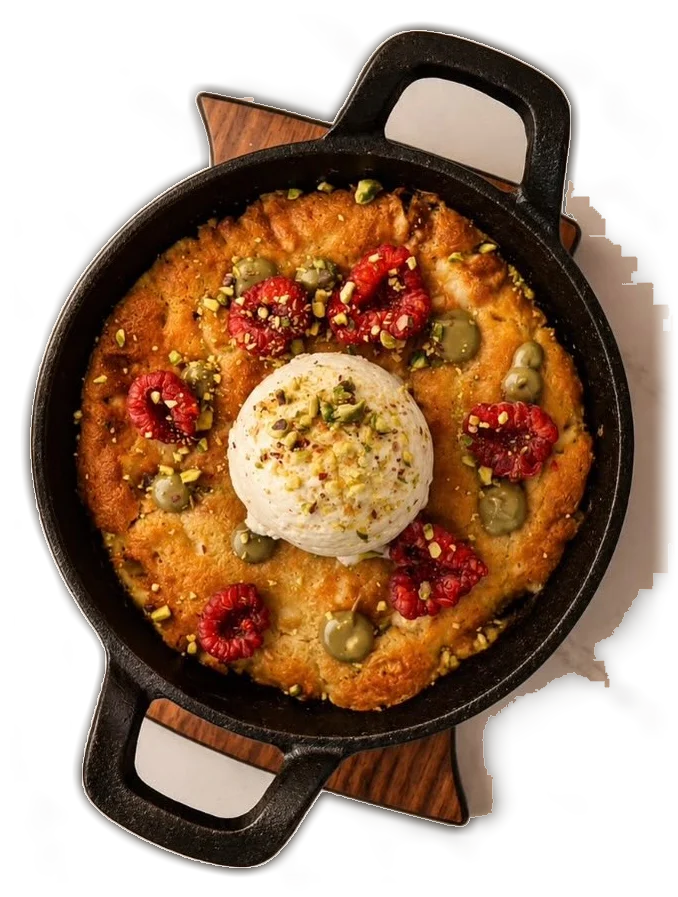
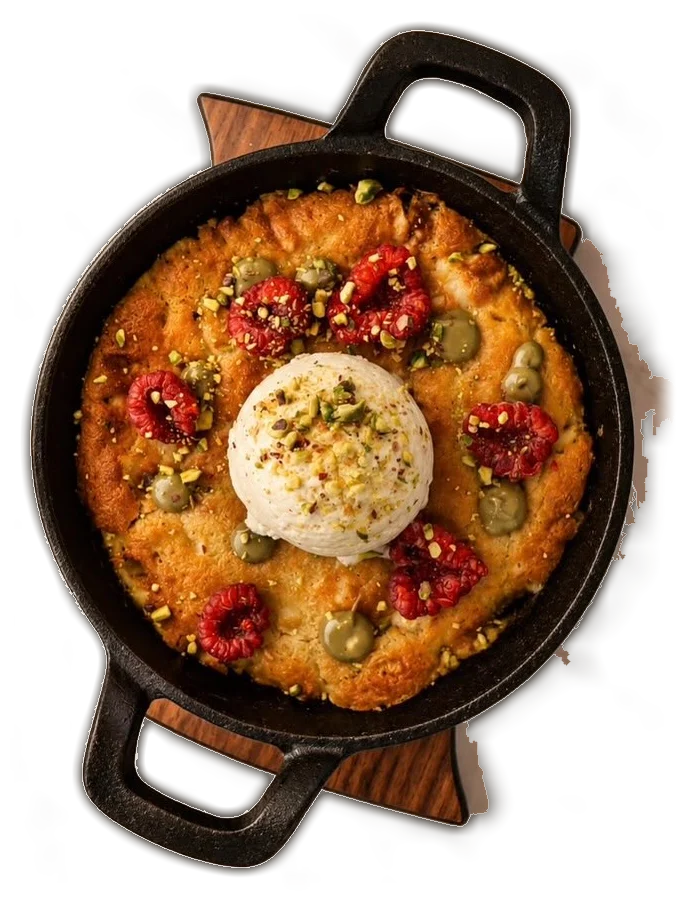
Mejoras de móvil, carta y recortes
- Móvil: una sola barra inferior; el botón principal pasa a «Votre table» con el
  total cuando hay algo en la mesa (sin píldora apilada encima).
- Pestañas de la carta fijas bajo la cabecera y deslizables en móvil; al cambiar
  de pestaña a media carta se vuelve al principio de la lista.
- Bebidas por grupos con un selector en lugar de 43 muestras seguidas.
- El aviso «ajouté» sale abajo para no tapar las pestañas.
- Recortes limpios de la sartén (asas huecas, sin mancha) y de Le Beldi. Recursos ?v=4.

diff --git a/js/main.js b/js/main.js
@@ -77,19 +77,45 @@
       if (s.extra) h += `<div class="more"><h3>${T('En plus', 'Extra', 'Extra')}</h3><ul class="rows">${rowHTML(s.extra)}</ul></div>`;
       return h + '</div>';
     }).join('') + `<div class="panel" role="tabpanel" id="p-boissons" aria-labelledby="t-boissons" tabindex="0"${current === 'boissons' ? '' : ' hidden'}>`
-      + DRINKS.map((g) => `<div class="sw-group"><h3>${txt(g.title)}</h3><div class="sws">${g.items.map(swHTML).join('')}</div></div>`).join('') + '</div>';
+      + `<div class="sw-filter" role="group" aria-label="${T('Type de boisson', 'Type of drink', 'Tipo de bebida')}">`
+      + DRINKS.map((g) => `<button type="button" class="sw-chip" data-group="${g.id}" aria-pressed="${g.id === group}">${txt(g.title)}<span>${g.items.length}</span></button>`).join('') + '</div>'
+      + DRINKS.map((g) => `<div class="sw-group" id="g-${g.id}"${g.id === group ? '' : ' hidden'}><h3>${txt(g.title)}</h3><div class="sws">${g.items.map(swHTML).join('')}</div></div>`).join('') + '</div>';
+  }
+  // bebidas: un grupo cada vez, para que la pestaña no sea una lista de 43
+  let group = DRINKS[0].id;
+  function selectGroup(id) {
+    group = id;
+    $$('.sw-chip').forEach((b) => {
+      const on = b.dataset.group === id; b.setAttribute('aria-pressed', String(on));
+      if (on) { const row = b.parentElement; row.scrollTo({ left: b.offsetLeft - (row.clientWidth - b.offsetWidth) / 2, behavior: reduce ? 'auto' : 'smooth' }); }
+    });
+    $$('.sw-group').forEach((g) => { g.hidden = g.id !== 'g-' + id; });
+    const g = $('#g-' + id);
+    if (!reduce && window.gsap && g) gsap.fromTo($$('.sw', g), { y: 16, opacity: 0 }, { y: 0, opacity: 1, duration: .45, ease: 'power3.out', stagger: .025, clearProps: 'transform,opacity' });
+    toCarteTop(); window.ScrollTrigger?.refresh();
+  }
+  // si la barra de pestañas va fija y ya se ha bajado por la carta, se vuelve al principio de la lista
+  function toCarteTop() {
+    const tabs = $('.tabs'), panels = $('.js-panels');
+    const y = panels.getBoundingClientRect().top + scrollY - navH() - tabs.offsetHeight - 24;
+    if (scrollY > y + 4) { if (window.lenis) lenis.scrollTo(y, { duration: .6 }); else scrollTo({ top: y }); }
   }
   function selectTab(id, focus) {
     current = id;
-    $$('.tab').forEach((b) => { const on = b.id === 't-' + id; b.setAttribute('aria-selected', on); b.tabIndex = on ? 0 : -1; if (on && focus) b.focus(); });
+    $$('.tab').forEach((b) => {
+      const on = b.id === 't-' + id; b.setAttribute('aria-selected', on); b.tabIndex = on ? 0 : -1;
+      if (on) { if (focus) b.focus(); const row = b.parentElement; row.scrollTo({ left: b.offsetLeft - (row.clientWidth - b.offsetWidth) / 2, behavior: reduce ? 'auto' : 'smooth' }); }
+    });
     $$('.panel').forEach((p) => { p.hidden = p.id !== 'p-' + id; });
     const p = $('#p-' + id);
-    if (!reduce && window.gsap && p) gsap.fromTo($$('.dish, .sw, .more', p).slice(0, 14), { y: 22, opacity: 0 }, { y: 0, opacity: 1, duration: .6, ease: 'power3.out', stagger: .035, clearProps: 'transform,opacity' });
+    if (!reduce && window.gsap && p) gsap.fromTo($$('.dish, .more, .sw-group:not([hidden]) .sw', p).slice(0, 14), { y: 22, opacity: 0 }, { y: 0, opacity: 1, duration: .6, ease: 'power3.out', stagger: .035, clearProps: 'transform,opacity' });
     window.ScrollTrigger?.refresh();
   }
   document.addEventListener('click', (e) => {
+    const chip = e.target.closest('.sw-chip');
+    if (chip) { selectGroup(chip.dataset.group); return; }
     const tab = e.target.closest('.tab');
-    if (tab) { selectTab(tab.id.slice(2)); return; }
+    if (tab) { selectTab(tab.id.slice(2)); toCarteTop(); return; }
     const link = e.target.closest('[data-tab]');
     if (link) { selectTab(link.dataset.tab); }
   });
@@ -182,7 +208,19 @@
     const pill = $('.js-pill');
     pill.hidden = count === 0;
     $('.js-pill-n').textContent = count; $('.js-pill-t').textContent = dh(total);
+    bar.count = count; bar.total = total; syncBar();
     return { rows, total };
+  }
+  // móvil: una sola barra. El primer botón es «La carte» o, si hay algo en la mesa, «Votre table» con el total
+  const bar = { count: 0, total: 0, inTable: false };
+  function syncBar() {
+    const main = $('.mb-main'); if (!main) return;
+    const showTable = bar.count > 0 && !bar.inTable;
+    main.setAttribute('href', showTable ? '#table' : '#carte');
+    main.classList.toggle('is-table', showTable);
+    main.innerHTML = showTable
+      ? `<span>${T('Votre table', 'Your table', 'Tu mesa')} · ${bar.count}</span><b>${dh(bar.total)}</b>`
+      : `<span>${T('La carte', 'Menu', 'La carta')}</span>`;
   }
   $('.js-copy')?.addEventListener('click', async () => {
     const { rows, total } = renderBill();
@@ -251,6 +289,7 @@
     const inTable = m.tTop - y < m.vh * .85 && m.tBot - y > m.vh * .2;
     top.classList.toggle('scrolled', y > 24);
     mbar?.classList.toggle('off', !pastHero);
+    if (inTable !== bar.inTable) { bar.inTable = inTable; syncBar(); }
     pill.classList.toggle('off', !pastHero || inTable || m.end - y < m.vh * .9);
   }
   addEventListener('scroll', onScroll, { passive: true });

diff --git a/index.html b/index.html
@@ -17,12 +17,12 @@
 <meta property="og:url" content="https://mariovalentinopavel.github.io/naya-marrakech/">
 <meta name="twitter:card" content="summary_large_image">
 <link rel="canonical" href="https://mariovalentinopavel.github.io/naya-marrakech/">
-<link rel="preload" href="assets/plates/hd-cookie-skillet.webp" as="image" type="image/webp">
+<link rel="preload" href="assets/plates/hd-cookie-skillet.webp?v=4" as="image" type="image/webp">
 <link rel="preload" href="assets/fonts/gambarino-400.woff2" as="font" type="font/woff2" crossorigin>
 <script>document.documentElement.classList.add('js');if(!matchMedia('(prefers-reduced-motion: reduce)').matches){document.documentElement.classList.add('pre');setTimeout(function(){document.documentElement.classList.remove('pre')},1500)}</script>
-<link rel="stylesheet" href="css/fonts.css?v=3">
-<link rel="stylesheet" href="css/legal.css?v=3">
-<link rel="stylesheet" href="css/style.css?v=3">
+<link rel="stylesheet" href="css/fonts.css?v=4">
+<link rel="stylesheet" href="css/legal.css?v=4">
+<link rel="stylesheet" href="css/style.css?v=4">
 <script type="application/ld+json">
 {"@context":"https://schema.org","@type":"Restaurant","name":"NAYA - Brunch & Dessert Marrakech","description":"Brunch, brasserie et desserts faits maison à Guéliz","image":"https://mariovalentinopavel.github.io/naya-marrakech/assets/img/facade-jour.webp","url":"https://mariovalentinopavel.github.io/naya-marrakech/","telephone":"+212 7 15 47 92 27","address":{"@type":"PostalAddress","streetAddress":"Rue Hassania, Guéliz","postalCode":"40000","addressLocality":"Marrakech","addressCountry":"MA"},"geo":{"@type":"GeoCoordinates","latitude":31.6348099,"longitude":-8.008524},"openingHoursSpecification":[{"@type":"OpeningHoursSpecification","dayOfWeek":["Monday","Tuesday","Wednesday","Thursday","Friday","Saturday","Sunday"],"opens":"09:00","closes":"23:59"}],"servesCuisine":["Brunch","Brasserie","Desserts"],"currenciesAccepted":"MAD","hasMenu":"#carte","sameAs":["https://www.instagram.com/naya.marrakech/","https://www.tiktok.com/@naya.marrakech"]}
 </script>
@@ -92,7 +92,7 @@
 <section class="hero" id="accueil">
   <h1 class="mono" aria-label="NAYA, brunch et dessert à Marrakech" data-i18n-attr="aria-label:h1L">
     <span class="mono-w mono-l" aria-hidden="true"><span class="mono-i">NA</span></span>
-    <span class="mono-plate" aria-hidden="true"><img src="assets/plates/hd-cookie-skillet.webp" alt="" width="678" height="897" fetchpriority="high"></span>
+    <span class="mono-plate" aria-hidden="true"><img src="assets/plates/hd-cookie-skillet.webp?v=4" alt="" width="678" height="897" fetchpriority="high"></span>
     <span class="mono-w mono-r" aria-hidden="true"><span class="mono-i">YA</span></span>
   </h1>
   <p class="hero-sub" data-h>Brunch &amp; Dessert</p>
@@ -135,7 +135,7 @@
       <li class="pt pt-1" data-to="0.47,0.21"><b>Msemen</b><span data-i18n="msemenD">Crêpe feuilletée</span></li>
       <li class="pt pt-3" data-to="0.48,0.83"><b>Harcha</b><span data-i18n="harchaD">Galette de semoule</span></li>
     </ul>
-    <figure class="beldi-plate"><img src="assets/plates/le-beldi.webp" alt="Le Beldi vu du dessus : msemen, baghrir, harcha et petits pots" data-i18n-attr="alt:altBeldi" width="391" height="400" loading="lazy" decoding="async"></figure>
+    <figure class="beldi-plate"><img src="assets/plates/le-beldi.webp?v=4" alt="Le Beldi vu du dessus : msemen, baghrir, harcha et petits pots" data-i18n-attr="alt:altBeldi" width="379" height="395" loading="lazy" decoding="async"></figure>
     <ul class="beldi-col beldi-r">
       <li class="pt pt-2" data-to="0.48,0.53"><b>Baghrir</b><span data-i18n="baghrirD">Crêpe aux mille trous</span></li>
       <li class="pt pt-4" data-to="0.86,0.86"><b data-i18n="spreadH">À tartiner</b><span data-i18n="spreadD">Miel, amlou, beurre, confiture de fraise et Nutella</span></li>
@@ -287,7 +287,7 @@
 </footer>
 
 <nav class="mbar off" aria-label="Actions rapides" data-i18n-attr="aria-label:mbarL">
-  <a href="#carte" data-i18n="mb1">La carte</a>
+  <a class="mb-main" href="#carte">La carte</a>
   <a href="https://www.google.com/maps/dir/?api=1&amp;destination=31.6348099,-8.008524" target="_blank" rel="noopener" data-i18n="dir">Itinéraire</a>
   <a href="tel:+212715479227" data-i18n="mb3">Appeler</a>
 </nav>
@@ -297,10 +297,10 @@
 <script src="js/vendor/gsap.min.js"></script>
 <script src="js/vendor/ScrollTrigger.min.js"></script>
 <script src="js/vendor/lenis.min.js"></script>
-<script src="js/data.js?v=3"></script>
-<script src="js/lang.js?v=3"></script>
-<script src="js/i18n.js?v=3" data-site="naya"></script>
-<script src="js/consent.js?v=3" data-site="naya" data-policy="mentions-legales.html#cookies"></script>
-<script src="js/main.js?v=3"></script>
+<script src="js/data.js?v=4"></script>
+<script src="js/lang.js?v=4"></script>
+<script src="js/i18n.js?v=4" data-site="naya"></script>
+<script src="js/consent.js?v=4" data-site="naya" data-policy="mentions-legales.html#cookies"></script>
+<script src="js/main.js?v=4"></script>
 </body>
 </html>

diff --git a/css/style.css b/css/style.css
@@ -149,8 +149,10 @@ section { padding: var(--sec) 0; }
 .beldi-drinks p { color: var(--ink-2); }
 
 /* la carta */
-.tabs { display: flex; flex-wrap: wrap; justify-content: center; gap: 8px; max-width: 900px; margin: 0 auto clamp(40px, 5vw, 64px); padding: 0 var(--m); }
-.tab { min-height: 48px; padding: 0 22px; border: 0; border-radius: 99px; background: var(--ground-2); font: 500 15px/1 var(--f-b); transition: background-color .25s, color .25s, scale .16s var(--ease); }
+/* barra de pestañas fija bajo la cabecera mientras se recorre la carta; en móvil se desliza */
+.tabs { position: sticky; top: calc(var(--nav-h) + 10px); z-index: 30; display: flex; gap: 4px; width: max-content; max-width: calc(100% - 2 * var(--m)); margin: 0 auto clamp(40px, 5vw, 64px); padding: 5px; border-radius: 99px; background: var(--ground); box-shadow: 0 12px 30px -18px rgba(23, 19, 15, .5); overflow-x: auto; scrollbar-width: none; overscroll-behavior-x: contain; }
+.tabs::-webkit-scrollbar { display: none; }
+.tab { flex: none; white-space: nowrap; min-height: 44px; padding: 0 20px; border: 0; border-radius: 99px; background: transparent; font: 500 15px/1 var(--f-b); transition: background-color .25s, color .25s, scale .16s var(--ease); }
 .tab:active { scale: .97; }
 .tab[aria-selected="true"] { background: var(--ink); color: var(--ground); }
 @media (hover: hover) and (pointer: fine) { .tab[aria-selected="false"]:hover { background: #ddd5c9; } }
@@ -401,11 +403,11 @@ section { padding: var(--sec) 0; }
 .beldi-lines.drawn circle { opacity: 1; }
 /* ritmo de fondos: mármol y crema se alternan; en crema, las superficies pasan a mármol */
 .duo { padding-top: var(--sec); }
-.field .tab[aria-selected="false"], .field .row, .field .social a, .field .q { background: var(--ground); }
+.field .row, .field .social a, .field .q { background: var(--ground); }
 .field .qty { background: var(--ground); }
 .beldi-drinks > div { background: var(--ground-2); }
 .beldi-lines .ring { fill: var(--ground); }
-@media (hover: hover) and (pointer: fine) { .field .tab[aria-selected="false"]:hover, .field .social a:hover { background: #fbf9f6; } }
+@media (hover: hover) and (pointer: fine) { .field .social a:hover { background: #fbf9f6; } }
 .field .q-c { background: var(--ink); }
 .field .dish-tile.no-photo, .field .tile.no-photo { background: var(--ground); }
 .menu .langs { justify-self: center; }
@@ -421,3 +423,28 @@ section { padding: var(--sec) 0; }
 .mono-plate, .mono-w, .duo-a, .tri-m img, .tri-m video { will-change: transform; }
 .tri-door { position: absolute; inset: 0; z-index: 2; background: var(--ground); will-change: transform; pointer-events: none; }
 .tri-c .tri-door { inset: 0 auto 0 auto; width: 50%; }
+/* bebidas: un grupo cada vez, elegido con un control segmentado bajo las pestañas */
+.sw-filter { position: relative; display: flex; flex-wrap: wrap; justify-content: center; gap: 6px; max-width: 980px; margin: 0 auto clamp(36px, 4vw, 56px); }
+.sw-chip { display: inline-flex; align-items: center; gap: 8px; flex: none; min-height: 42px; padding: 0 16px; border: 0; border-radius: 99px; background: transparent; color: var(--ink-2); font: 500 14.5px/1 var(--f-b); white-space: nowrap; transition: background-color .25s, color .25s, scale .16s var(--ease); }
+.sw-chip span { font-size: 12px; font-variant-numeric: tabular-nums; opacity: .7; }
+.sw-chip[aria-pressed="true"] { background: var(--ground); color: var(--ink); }
+.sw-chip:active { scale: .97; }
+@media (hover: hover) and (pointer: fine) { .sw-chip[aria-pressed="false"]:hover { color: var(--ink); background: rgba(242, 239, 234, .55); } }
+.sw-group > h3 { position: absolute; width: 1px; height: 1px; overflow: hidden; clip-path: inset(50%); white-space: nowrap; }
+/* móvil: el botón principal de la barra pasa a ser la mesa cuando hay algo */
+.mb-main { gap: 3px; line-height: 1.1; text-align: center; }
+.mb-main.is-table span { font-size: 12.5px; }
+.mb-main.is-table b { font: 600 15px/1 var(--f-b); font-variant-numeric: tabular-nums; }
+@media (max-width: 760px) {
+  .mbar { grid-template-columns: 1.35fr 1fr 1fr; }
+  .mbar a.mb-main { display: grid; align-content: center; }
+  .pill { display: none !important; }
+  .tabs { max-width: calc(100% - 2 * var(--m)); }
+  .tab { min-height: 42px; padding: 0 16px; font-size: 14.5px; }
+  .sw-filter { flex-wrap: nowrap; justify-content: flex-start; overflow-x: auto; scrollbar-width: none; margin-left: calc(-1 * var(--m)); margin-right: calc(-1 * var(--m)); padding: 0 var(--m); }
+  .sw-filter::-webkit-scrollbar { display: none; }
+}
+/* el aviso «ajouté» sale abajo, encima de la barra, para no tapar las pestañas fijas */
+.toast { top: auto; bottom: calc(92px + env(safe-area-inset-bottom)); translate: -50% 16px; }
+.toast.show { translate: -50% 0; }
+@media (max-width: 760px) { .toast { bottom: calc(80px + env(safe-area-inset-bottom)); max-width: calc(100vw - 32px); white-space: nowrap; overflow: hidden; text-overflow: ellipsis; } }

diff --git a/mentions-legales.html b/mentions-legales.html
@@ -7,8 +7,8 @@
 <meta name="robots" content="noindex">
 <meta name="theme-color" content="#f2efea">
 <link rel="icon" href="assets/favicon.svg" type="image/svg+xml">
-<link rel="stylesheet" href="css/fonts.css?v=3">
-<link rel="stylesheet" href="css/legal.css?v=3">
+<link rel="stylesheet" href="css/fonts.css?v=4">
+<link rel="stylesheet" href="css/legal.css?v=4">
 <style>
   :root { --c-bg: #f2efea; --c-card: #fbf9f6; --c-ink: #17130f; --c-mute: #4b4139; --c-line: #d6cdc0; --c-acc: #ee7b1e; --c-acc-ink: #17130f; --r: 18px; --f-d: 'Gambarino', serif; --f-b: 'Supreme', system-ui, sans-serif; }
   .langs { display: flex; gap: 2px; padding: 3px; border-radius: 99px; background: #e9e4dc; }
@@ -160,6 +160,6 @@
   set(lang || 'fr');
 })();
 </script>
-<script src="js/consent.js?v=3" data-site="naya" data-policy="mentions-legales.html#cookies"></script>
+<script src="js/consent.js?v=4" data-site="naya" data-policy="mentions-legales.html#cookies"></script>
 </body>
 </html>
